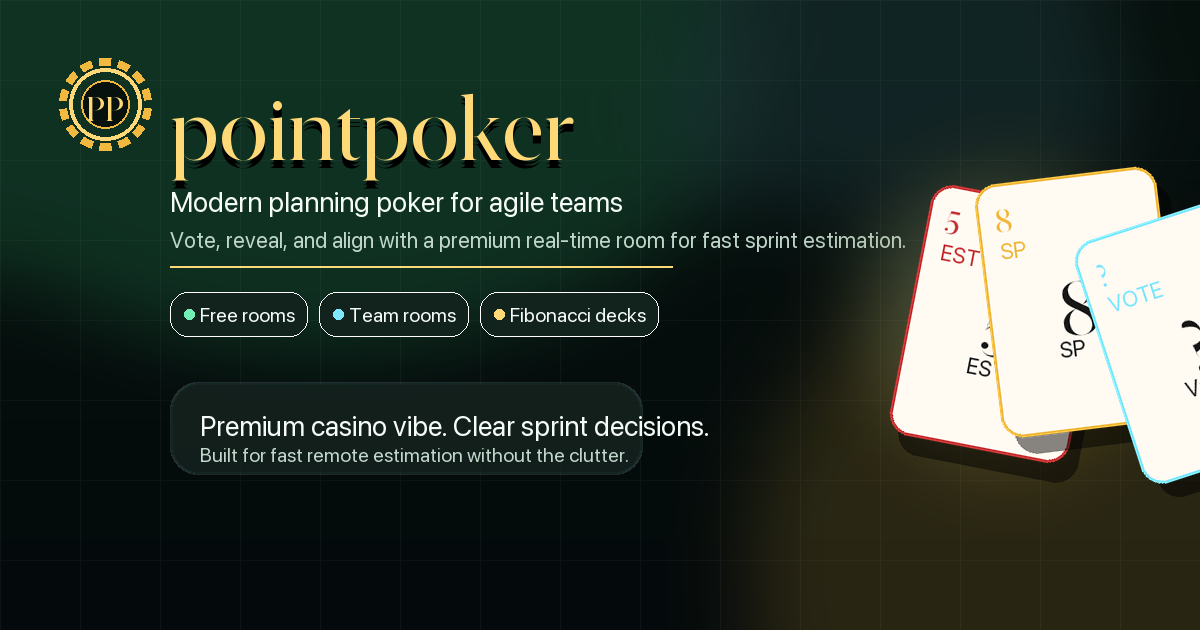
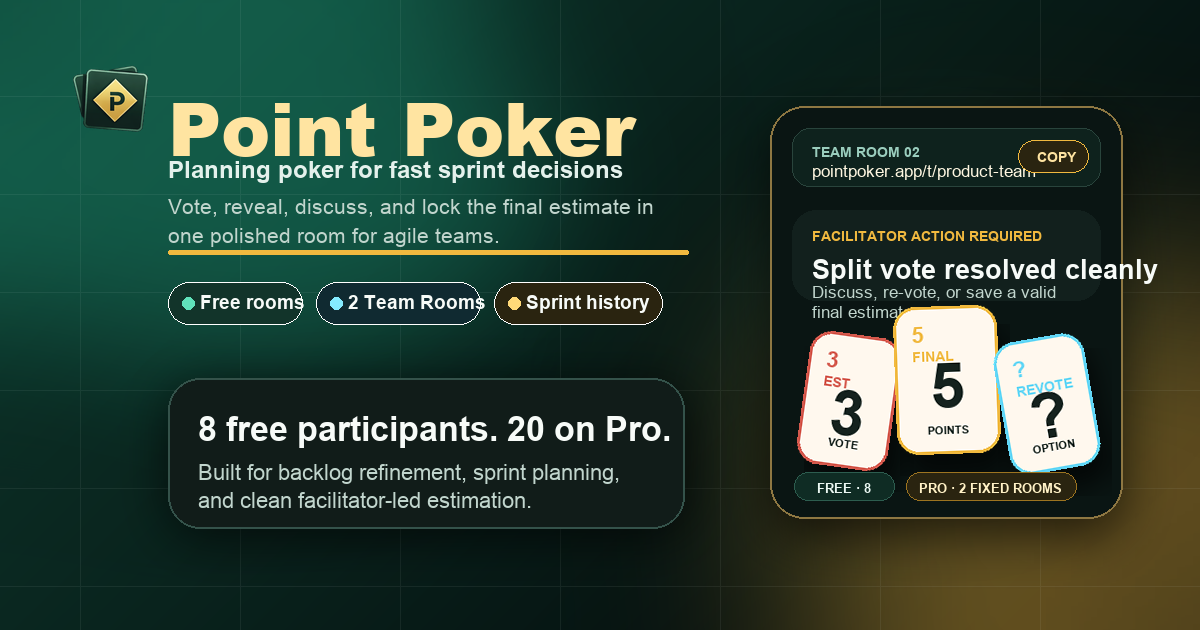
design: refresh social preview image

diff --git a/public/index.html b/public/index.html
@@ -22,7 +22,7 @@
     <meta property="og:image:type" content="image/png" />
     <meta property="og:image:width" content="1200" />
     <meta property="og:image:height" content="630" />
-    <meta property="og:image:alt" content="pointpoker planning poker app on a dark green background" />
+    <meta property="og:image:alt" content="Point Poker social preview showing a premium planning poker workspace, facilitator split-vote resolution, and dedicated Team Rooms." />
     <meta property="og:site_name" content="pointpoker" />
     <meta property="og:locale" content="en_GB" />
 
@@ -32,7 +32,7 @@
     <meta name="twitter:title" content="pointpoker — Free Online Planning Poker for Agile Teams" />
     <meta name="twitter:description" content="Run sprint planning with real-time planning poker, simultaneous reveal, story queues, and team alignment analytics." />
     <meta name="twitter:image" content="https://www.pointpoker.app/og-image.png" />
-    <meta name="twitter:image:alt" content="pointpoker planning poker app on a dark green background" />
+    <meta name="twitter:image:alt" content="Point Poker social preview showing a premium planning poker workspace, facilitator split-vote resolution, and dedicated Team Rooms." />
 
     <!-- ── Theme & PWA ───────────────────────────────────────────── -->
     <meta name="theme-color" content="#0c1a0f" />

diff --git a/PROGRESS.md b/PROGRESS.md
@@ -25,7 +25,7 @@
   - OG social image now exists at `public/og-image.png`
   - The visual design system has been modernised toward a cleaner 2026 casino-app look with brighter amber, deeper emerald surfaces, and more premium glass UI
   - Font system unified to Outfit only — Cormorant Garamond removed; display contexts (headings, card numbers, stats, pricing) use Outfit 700 with tight negative letter-spacing for a clean modern feel
-  - OG social image now matches the refreshed UI theme and uses clearer, more readable social-preview text
+  - OG social image now uses a stronger, more product-led social-preview composition with clearer hierarchy, visible facilitator/split-vote cues, and more explicit Team Room / capacity messaging
   - Vercel Speed Insights is installed and mounted for production performance monitoring
   - The approved transparent brand mark is now used across the app’s logo sections
   - The app wordmark now displays as `Point Poker` with white `Point`, gold `Poker`, and stronger spacing/capitalization
@@ -211,7 +211,7 @@ Treat this section as the fastest current-status read. Historical session notes 
 ## 🗓 Last Session
 - **Date:** 1 April 2026
 - **Chat name:** planning-poker
-- **Worked on:** account persistence, capacity, and dedicated Team Room expansion
+- **Worked on:** account persistence, capacity, dedicated Team Room expansion, and OG image polish
 - **Completed:**
   - Confirmed the backend registration/update mechanism already exists through Firebase Auth plus `/users/{uid}`, then extended the profile model so both Free and Pro accounts persist richer account state cleanly.
   - Added two dedicated fixed Team Room URLs for Pro accounts while preserving the existing primary Team Room slug as the stable first room.
@@ -219,14 +219,16 @@ Treat this section as the fastest current-status read. Historical session notes 
   - Changed Free capacity from 6 voters to 8 total participants including the facilitator, and updated room-full logic accordingly.
   - Rewrote product copy across workspace, pricing, SEO pages, room entry, upgrade prompts, and support messaging so it consistently reflects 2 dedicated Team Rooms and participant-based capacity.
   - Updated `database.rules.json` and regenerated `database.rules.publish.json` so Firebase can accept the new optional `/users/{uid}/teamRooms` structure.
+  - Rebuilt `public/og-image.png` with a more premium link-preview layout that surfaces Point Poker branding, split-vote/facilitator workflow, dedicated Team Rooms, and updated participant limits more clearly.
+  - Updated Open Graph / Twitter image alt text in `public/index.html` to match the new visual.
   - `npm run build` passed.
 
 ---
 
 ## 📍 Current Status
 **Phase:** 2/3 crossover — SEO growth is expanding and account/product capabilities are being refined
-**Active step:** publish the latest Firebase rules update for `teamRooms`, then continue Search Console monitoring and deeper trust/proof content
-**Remaining:** Firebase rules republish for `teamRooms`, trust/proof content, Search Console monitoring, then Stripe/payment work when resumed
+**Active step:** continue Search Console monitoring and deeper Phase 3 trust/proof content while Stripe remains intentionally parked
+**Remaining:** trust/proof content, Search Console monitoring, broader production E2E sweep if desired, then Stripe/payment work when resumed
 
 ## Update Rule
 - Any AI that completes a meaningful task must update this file in the same task.

diff --git a/PROJECT.md b/PROJECT.md
@@ -37,7 +37,7 @@ This section is the fastest, highest-priority handoff summary for any AI.
   - Mobile voting interaction hardened so same-card repeat taps no longer clear the vote
   - Team-room routing and founder-room URL handling were hardened after a real regression was found
   - Core UI palette and surface system were refreshed toward a more modern 2026 casino-app look while preserving the green/gold brand
-  - OG social image was refreshed to match the modernised theme and improve text readability in social previews
+  - OG social image was refreshed again to feel more premium in link previews, with clearer hierarchy, stronger split-vote/facilitator cues, and better emphasis on Team Rooms and participant limits
   - Vercel Speed Insights was added to the React root for live production performance telemetry
   - The provided transparent brand-mark asset is now used in the app logo sections in place of the old inline SVG chip mark
   - App chrome wordmark now renders as `Point Poker` with white `Point`, gold `Poker`, and explicit spacing/capitalization
@@ -179,7 +179,6 @@ This section is the fastest, highest-priority handoff summary for any AI.
     - **Workspace quick-actions are now genuine 1-click:** Pro "Enter Team Room →" and Free "Create Room →" buttons in the workspace card now directly call `onTeamRoom()` / `onCreate()` with pre-filled values instead of switching tab and scrolling (which required a second click). CTA priority for Free users also corrected: "Create Room →" is now the gold primary, "Upgrade to Pro" is secondary.
     - **Solo room invite banner:** GameScreen now shows a prominent dismissible gold banner when only 1 player is in the room — "Your room is ready. Share the link to bring your team in." with an inline copy button. Dismissed on copy or manual close.
 - Still pending:
-  - Publish the latest Firebase Realtime Database rules update after this pass so production accepts `/users/{uid}/teamRooms`
   - SEO Phase 3/4: continue adding supporting guide/trust/proof content, then monitor indexing/query performance in Search Console
   - Replace Stripe placeholder links and complete paid activation wiring
   - Verify real paid/pro account state end-to-end once live Stripe links exist
@@ -704,6 +703,7 @@ Listed chronologically newest-first.
 - Asset uses the live pointpoker brand direction: dark green felt background, gold chip/wordmark, and planning-poker card visuals
 - Existing Open Graph and Twitter metadata in `public/index.html` already points to this file, so no code changes were required beyond creating the asset
 - Later refreshed to align with the newer premium emerald/amber UI theme and improve headline/tagline legibility in social previews
+- Refreshed again on 1 April 2026 with a more product-led composition: stronger Point Poker hierarchy, clearer premium planning-poker messaging, visible split-vote resolution cues, and explicit Team Room / capacity signals for shared-link previews
 
 ### 2026-03 — Firebase Auth accounts + account-aware Pro gating
 - `firebase.js` now exports `auth` alongside `db`
